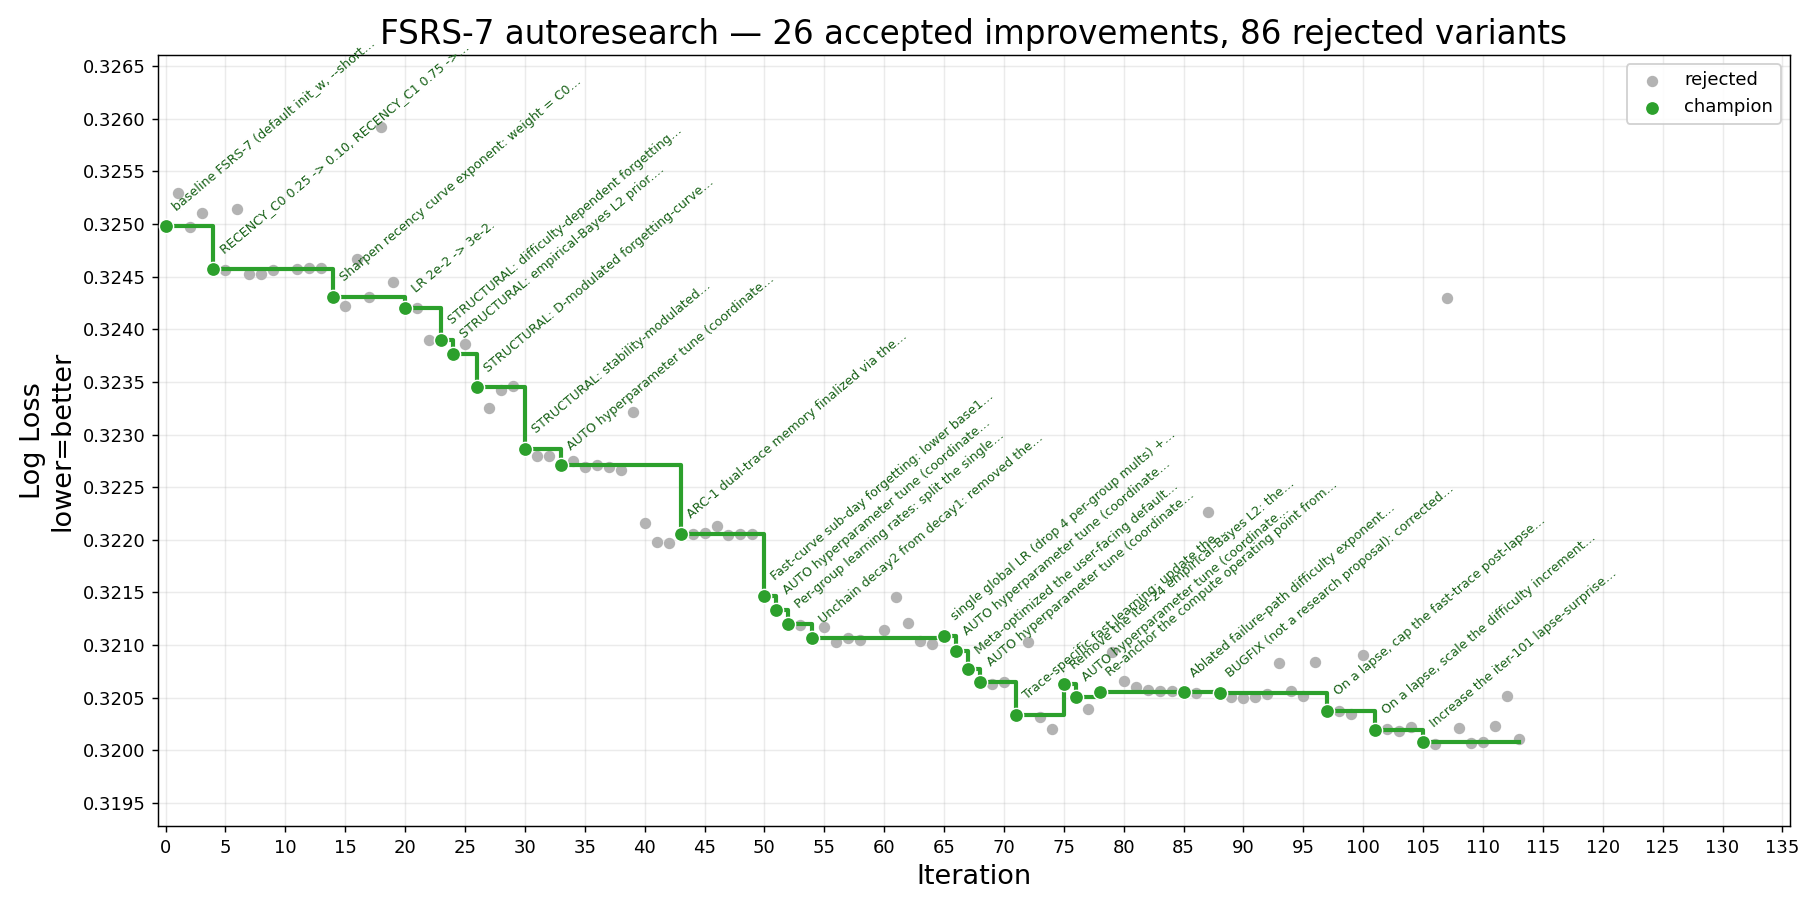
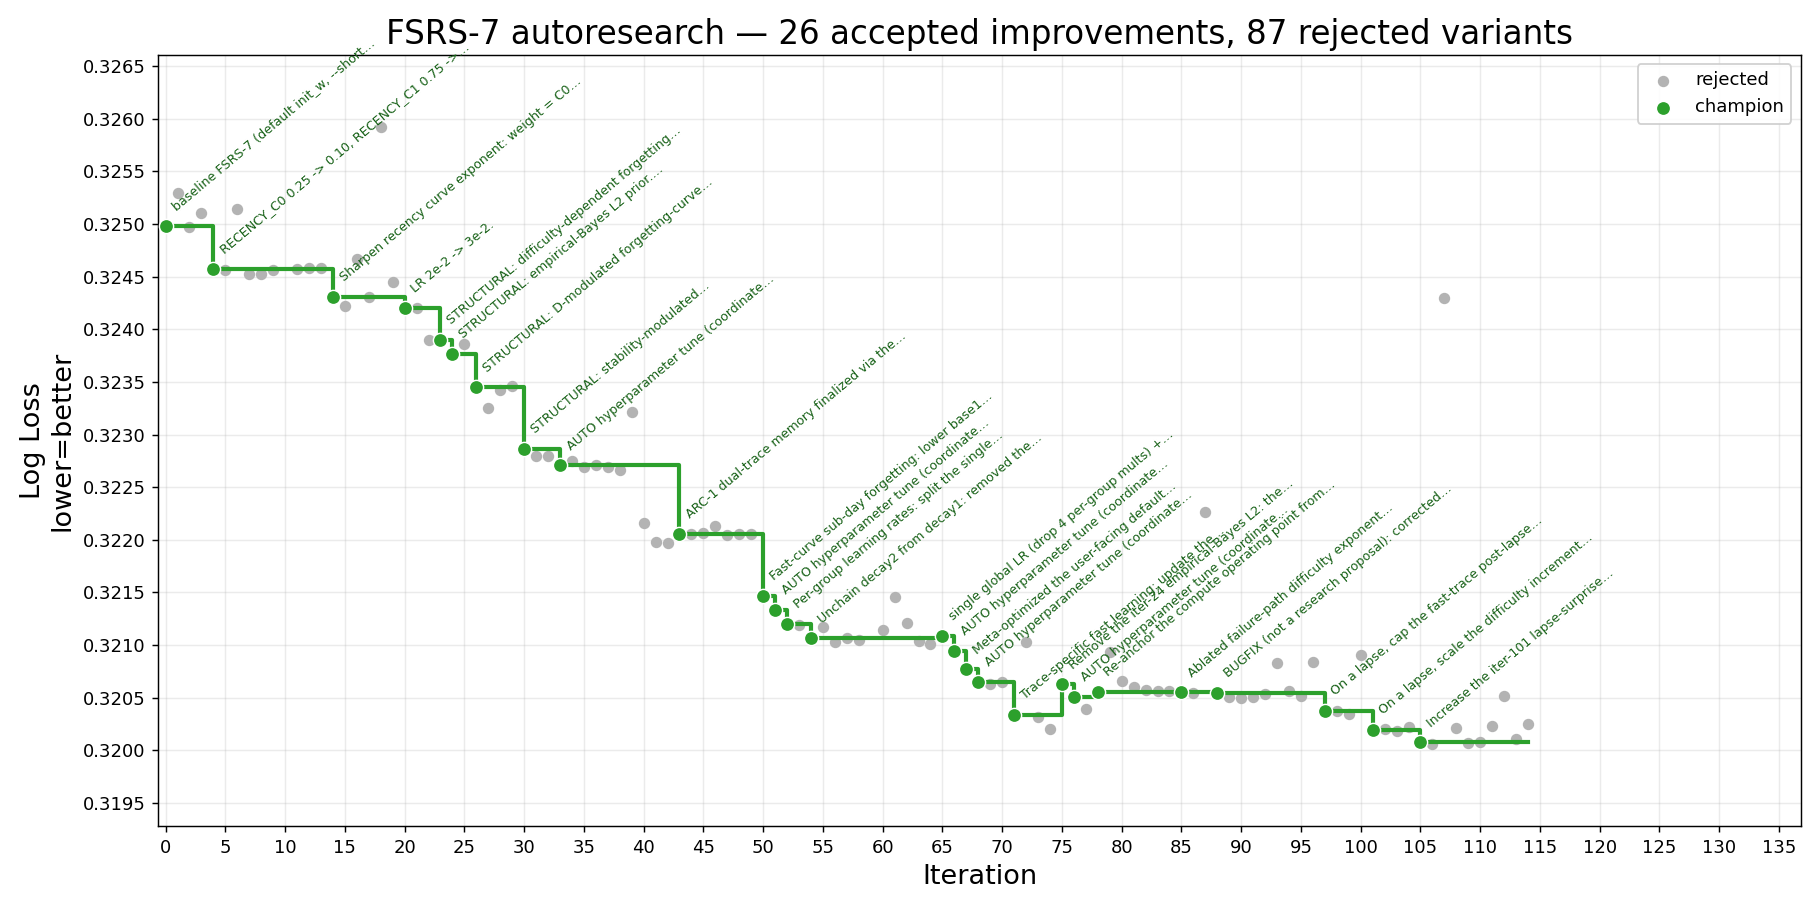
iter 114 (rejected): r2 (slow-component) lapse-surprise reference -- regressed (-1.7e-4); mixed-R reference is principled/optimal

diff --git a/result/history.md b/result/history.md
@@ -1,6 +1,6 @@
 # FSRS-7 autoresearch — iteration history
 
-_113 record(s). Generated from `history.jsonl` — do not edit by hand._
+_114 record(s). Generated from `history.jsonl` — do not edit by hand._
 
 | # | Time (UTC) | Thresh. | LL before | LL after | Δ LL | Cx before | Cx after | Δ Cx % | Status | Summary |
 |--:|---|---:|---:|---:|---:|---:|---:|---:|---|---|
@@ -117,3 +117,4 @@ _113 record(s). Generated from `history.jsonl` — do not edit by hand._
 | 111 | 2026-06-04T07:20:39 | 0.0001 | 0.32008 | 0.32023 | -0.00015 | 16,930 | 17,088 | +0.93% | rejected | On a same-day (elapsed_time<1d) successful review, amplify the slow-trace growth increment by 1.5x (the inverse of iter-107 freeze). |
 | 112 | 2026-06-04T07:38:40 | 0.0010 | 0.32008 | 0.32051 | -0.00044 | 16,930 | 17,028 | +0.58% | rejected | Add a 4th state variable lapse_recency (set 1 on a lapse, halved each review) that steepens the fast forgetting-curve component during relearning. |
 | 113 | 2026-06-04T07:47:52 | 0.0010 | 0.32008 | 0.32010 | -0.00003 | 16,930 | 17,029 | +0.58% | rejected | Add a 4th state lapse_count (permanent, +1 per lapse, capped 10) that raises the effective curve-difficulty by 0.3*count for chronic-leech discrimination. |
+| 114 | 2026-06-04T07:57:08 | 0.0001 | 0.32008 | 0.32025 | -0.00017 | 16,930 | 16,998 | +0.40% | rejected | Change the iter-101 lapse-surprise reference from the mixed retention to the slow-component recall r2 (long-term memory expectation). |
